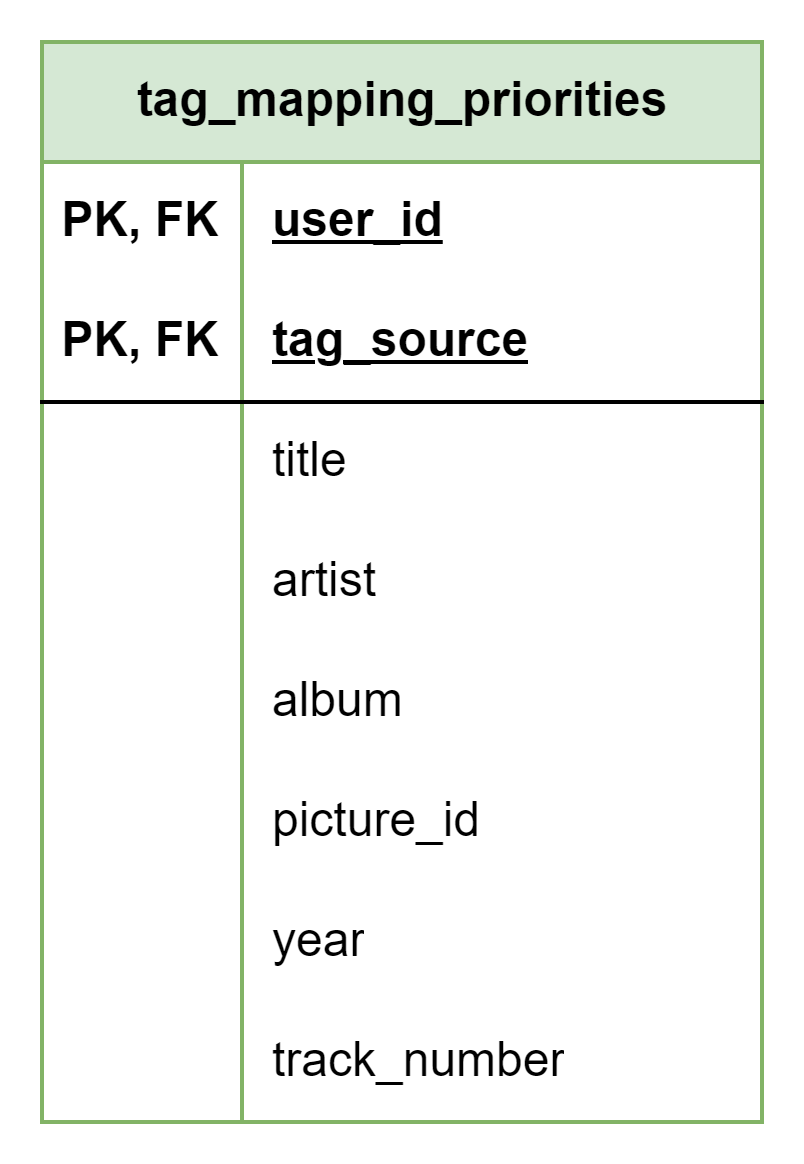
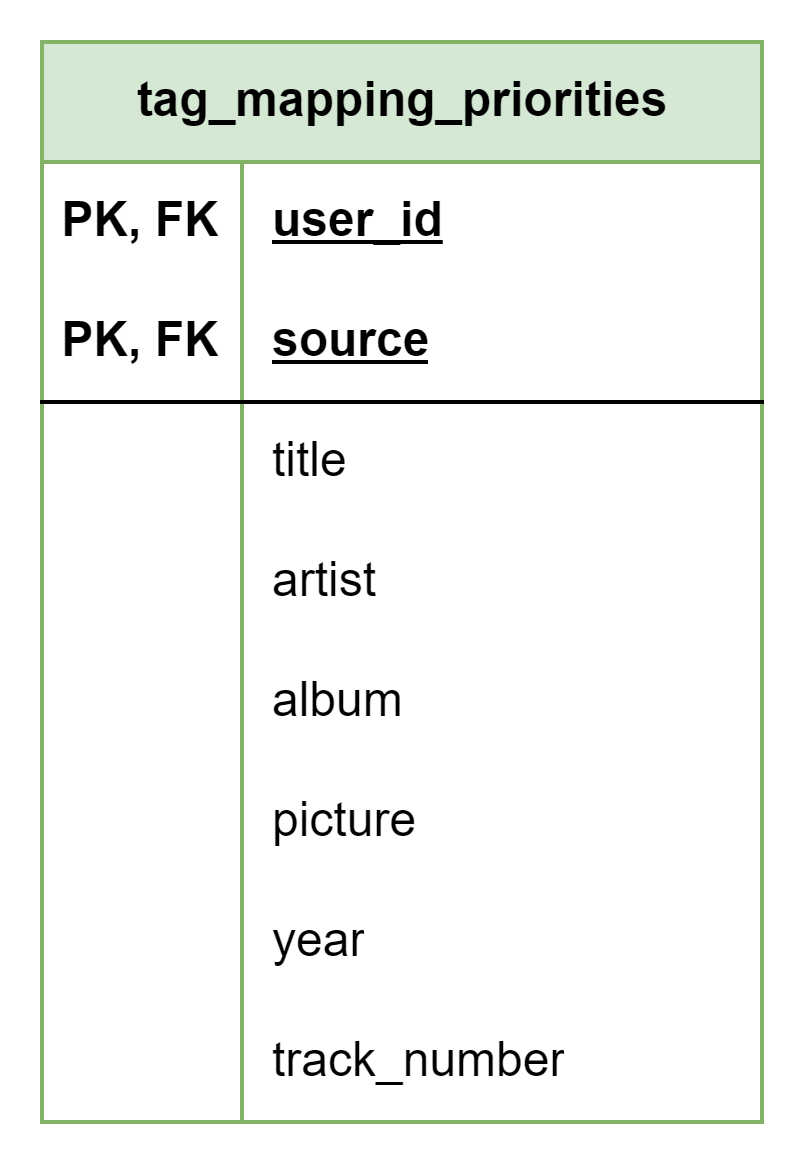
Update database documentation (#36)

Changed region(s): [[0.342, 0.2784, 0.653, 0.3402], [0.5286, 0.6804, 0.5908, 0.7423]]

diff --git a/docs/database/tags/tag_mappings.md b/docs/database/tags/tag_mappings.md
@@ -9,12 +9,11 @@ This page describes the public.tag_mappings table
 | Column | Type | Constraints | Description |
 | - | - | - | - |
 | id | SERIAL | PK |
-| user_id | SERIAL | FK to public.users(id) |
-| file_id | SERIAL | NOT NULL,<br/> FK to public.files(id) |
-| tag_source | SERIAL | NOT NULL,<br/> FK to public.tag_sources(id) |
-| title | SERIAL | NOT NULL |
-| artist | SERIAL | NOT NULL |
-| album | SERIAL | NOT NULL |
-| picture_id | SERIAL | NOT NULL |
-| year | SERIAL | NOT NULL |
-| track_number | SERIAL | NOT NULL |
+| user_id | INT | FK to public.users(id) |
+| file_id | INT | NOT NULL,<br/> FK to public.files(id) |
+| title | INT | NOT NULL,<br/> FK to public.tag_sources(id) |
+| artist | INT | NOT NULL,<br/> FK to public.tag_sources(id) |
+| album | INT | NOT NULL,<br/> FK to public.tag_sources(id) |
+| picture | INT | NOT NULL,<br/> FK to public.tag_sources(id) |
+| year | INT | NOT NULL,<br/> FK to public.tag_sources(id) |
+| track_number | INT | NOT NULL,<br/> FK to public.tag_sources(id) |

diff --git a/docs/database/tags/tags.md b/docs/database/tags/tags.md
@@ -9,12 +9,12 @@ This page describes the public.tags table
 | Column | Type | Constraints | Description |
 | - | - | - | - |
 | id | SERIAL | PK |
-| file_id | SERIAL | NOT NULL,<br/> FK to public.files(id) |
+| file_id | INT | NOT NULL,<br/> FK to public.files(id) |
 | title | VARCHAR(255) |
 | artist | VARCHAR(255) |
 | album | VARCHAR(255) |
 | picture_path | VARCHAR(255) |
-| year | TIMESPAMP |
+| year | SMALLINT |
 | track_number | INT |
-| source_type | SERIAL | NOT NULL,<br/> FK to public.tag_sources(id) |
-| status | CHAR | NOT NULL,<br/> FK to public.tag_statuses(status) |
+| source | INT | NOT NULL,<br/> FK to public.tag_sources(id) |
+| status | VARCHAR(2) | NOT NULL,<br/> FK to public.tag_statuses(status) |

diff --git a/docs/database/files/files.md b/docs/database/files/files.md
@@ -9,7 +9,7 @@ This page describes the public.files table
 | Column | Type | Constraints | Description |
 | - | - | - | - |
 | id | SERIAL | PK |
-| path | VARCHAR(255) | NULL, UNIQUE |
+| path | VARCHAR(255) | NOT NULL, UNIQUE |
 | source_url | VARCHAR(255) | NOT NULL, UNIQUE |
-| source_id | SERIAL | NOT NULL,<br/> FK to public.file_sources(id) |
+| source_id | INT | NOT NULL,<br/> FK to public.file_sources(id) |
 | status | VARCHAR(1) | NOT NULL,<br/> FK to public.file_statuses(status) |

diff --git a/docs/database/tags/tag_mapping_priorities.md b/docs/database/tags/tag_mapping_priorities.md
@@ -9,7 +9,7 @@ This page describes the public.tag_mapping_priorities table
 | Column | Type | Constraints | Description |
 | - | - | - | - |
 | user_id | SERIAL | PK,<br/> FK to public.users(id) |
-| tag_source | SERIAL | NOT NULL,<br/> FK to public.tag_sources(id) |
+| source | SERIAL | NOT NULL,<br/> FK to public.tag_sources(id) |
 | title | SMALLINT | NOT NULL |
 | artist | SMALLINT | NOT NULL |
 | album | SMALLINT | NOT NULL |

diff --git a/docs/database/files/user_files.md b/docs/database/files/user_files.md
@@ -8,5 +8,5 @@ This page describes the public.user_files table
 
 | Column | Type | Constraints | Description |
 | - | - | - | - |
-| user_id | SERIAL | NOT NULL, PK,<br/> FK to public.users(id) |
-| file_id | SERIAL | NOT NULL, PK,<br/> FK to public.files(id) |
+| user_id | INT | NOT NULL, PK,<br/> FK to public.users(id) |
+| file_id | INT | NOT NULL, PK,<br/> FK to public.files(id) |

diff --git a/docs/database/users/users.md b/docs/database/users/users.md
@@ -2,7 +2,7 @@
 
 This page describes the public.users table  
 
-![Alt text](users.png)  
+![Alt text](users.png)
 
 ## Structure definition  
 
@@ -10,5 +10,3 @@ This page describes the public.users table
 | - | - | - | - |
 | id  | SERIAL | PK |
 | name | VARCHAR(255) | NOT NULL |
-| password | VARCHAR(255) | NOT NULL |
-

diff --git a/docs/database/files/file_sources.md b/docs/database/files/file_sources.md
@@ -9,5 +9,5 @@ This page describes the public.file_sources table
 | Column | Type | Constraints | Description |
 | - | - | - | - |
 | id | SERIAL | PK |
-| description | VARCHAR(255) | NOT NULL |
-| image_path | VARCHAR(255) |
+| description | VARCHAR | NOT NULL |
+| logo_path | VARCHAR(255) | NOT NULL, UNIQUE |

diff --git a/docs/database/files/file_statuses.md b/docs/database/files/file_statuses.md
@@ -8,8 +8,8 @@ This page describes the public.file_statuses table
 
 | Column | Type | Constraints | Description |
 | - | - | - | - |
-| status  | CHAR(1) | PK |
-| description  | VARCHAR(255) | NOT NULL |
+| status  | VARCHAR(2) | PK |
+| description  | VARCHAR | NOT NULL |
 
 ## Data definition 
 

diff --git a/docs/database/tags/tag_statuses.md b/docs/database/tags/tag_statuses.md
@@ -8,8 +8,8 @@ This page describes the public.tag_statuses table
 
 | Column | Type | Constraints | Description |
 | - | - | - | - |
-| status  | CHAR | PK |
-| description  | VARCHAR(255) | NOT NULL |
+| status  | VARCHAR(2) | PK |
+| description  | VARCHAR | NOT NULL |
 
 ## Data definition 
 

diff --git a/docs/database/tags/tag_sources.md b/docs/database/tags/tag_sources.md
@@ -10,4 +10,4 @@ This page describes the public.tag_sources table
 | - | - | - | - |
 | id | SERIAL | PK |
 | description | VARCHAR(255) | NOT NULL |
-| image_path | VARCHAR(255) |
+| logo_path | VARCHAR(255) | NOT NULL, UNIQUE |
